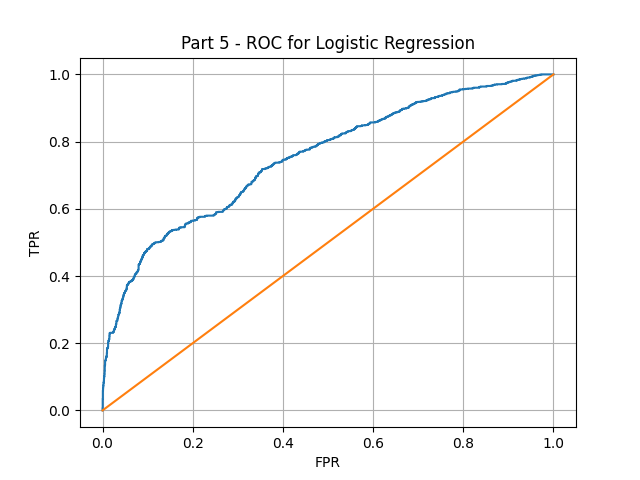
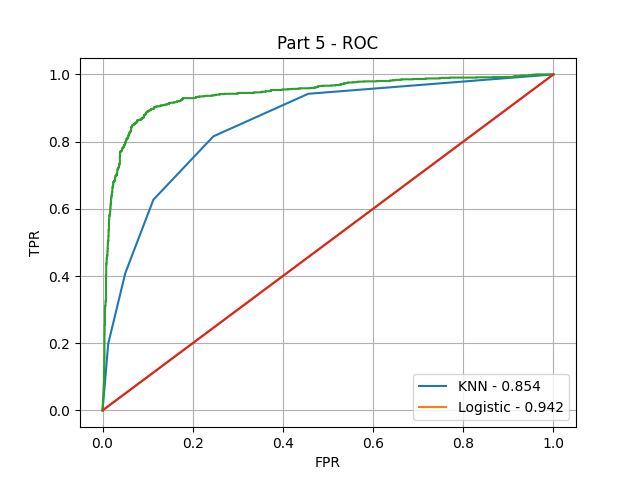
more hw3

diff --git a/hw3/logistic.py b/hw3/logistic.py
@@ -19,14 +19,16 @@ def recall(ys_true, ys_model):
     return tp / (tp + fn)
 
 def sigmoid(xs):
-    return np.divide(1, 1 + np.exp(xs))
+    return np.divide(1, 1 + np.exp(-xs))
 
 
 def logistic(xs_train, xs_test, classes_train, eta=1e-4):
     n = xs_train.shape[0]
     d = xs_train.shape[1]
     theta = np.zeros(d)
-    for itr in range(100):
+    vtheta = np.zeros(d) # added momentum to accel convergence
+    for itr in range(100000):
+        vtheta *= 0.995
         f = sigmoid(np.dot(xs_train, theta)) # indexed over all i in n
         #print(np.sum(f>0.5))
         dtheta = np.zeros(d)
@@ -34,8 +36,9 @@ def logistic(xs_train, xs_test, classes_train, eta=1e-4):
             dtheta += (1.0/n) * (f[i] - classes_train[i]) * xs_train[i]
         if itr % 10 == 0:
             print(np.max(np.abs(dtheta)))
-        theta += eta * dtheta
-    print("Theta:", theta)
+        vtheta -= eta * dtheta
+        theta += vtheta
+    #print("Theta:", theta)
 
     f = sigmoid(np.dot(xs_test, theta))
     print(np.sum(f > 0.5))
@@ -43,6 +46,7 @@ def logistic(xs_train, xs_test, classes_train, eta=1e-4):
 
 def logistic_crossval(xs, classes, k=1, fold=5):
     xs = np.insert(xs, -1, 1, axis=1)
+    #xs /= np.mean(xs)
     n_all = xs.shape[0] * 1.0
     accuracies = []
     precisions = []

diff --git a/hw3/roc.py b/hw3/roc.py
@@ -27,14 +27,14 @@ def findROC(ys, thress):
 
         print(tpr, fpr)
 
-        if len(tprs) != 0:
-            tprs.append(tpr)
-            fprs.append(fprs[-1])
+        #if len(tprs) != 0:
+        #    tprs.append(tpr)
+        #    fprs.append(fprs[-1])
         tprs.append(tpr)
         fprs.append(fpr)
 
-    tprs.append(1)
-    fprs.append(fprs[-1])
+    #tprs.append(1)
+    #fprs.append(fprs[-1])
     tprs.append(1)
     fprs.append(1)
 
@@ -43,12 +43,19 @@ def findROC(ys, thress):
 def plotROC(ys, thress, show=False):
     tprs, fprs = findROC(ys, thress)
 
+    s = 0 # AOC calculation
+    for i in range(len(tprs)-1):
+        s += (fprs[i+1] - fprs[i]) * (tprs[i+1] + tprs[i]) / 2
+
     plt.plot(fprs, tprs)
     plt.xlabel("FPR")
     plt.ylabel("TPR")
     plt.title("ROC Curve")
+    plt.legend(["AOC: %.3f" % s])
 
     plt.plot([0,1], [0,1])
 
     if show:
         plt.show()
+
+    return s

diff --git a/hw3/q2p5b.py b/hw3/q2p5b.py
@@ -17,13 +17,16 @@ ys_test = classes[1000:]
 
 ys_model = logistic.logistic(xs_train, xs_test, ys_train)
 
+ys_model_knn = knn.knn(xs_train, xs_test, ys_train, k=5)
 
-roc.plotROC(ys_test, ys_model)
+aoc_knn = roc.plotROC(ys_test, ys_model_knn)
+aoc_log = roc.plotROC(ys_test, ys_model)
+plt.legend(["KNN - %.3f" % aoc_knn, "Logistic - %.3f" % aoc_log])
 print("Test")
 print(ys_test)
 print("Model")
 print(ys_model)
-plt.title("Part 5 - ROC for Logistic Regression")
+plt.title("Part 5 - ROC")
 plt.grid()
 plt.savefig("img/q2p5b.png")
 plt.show()
